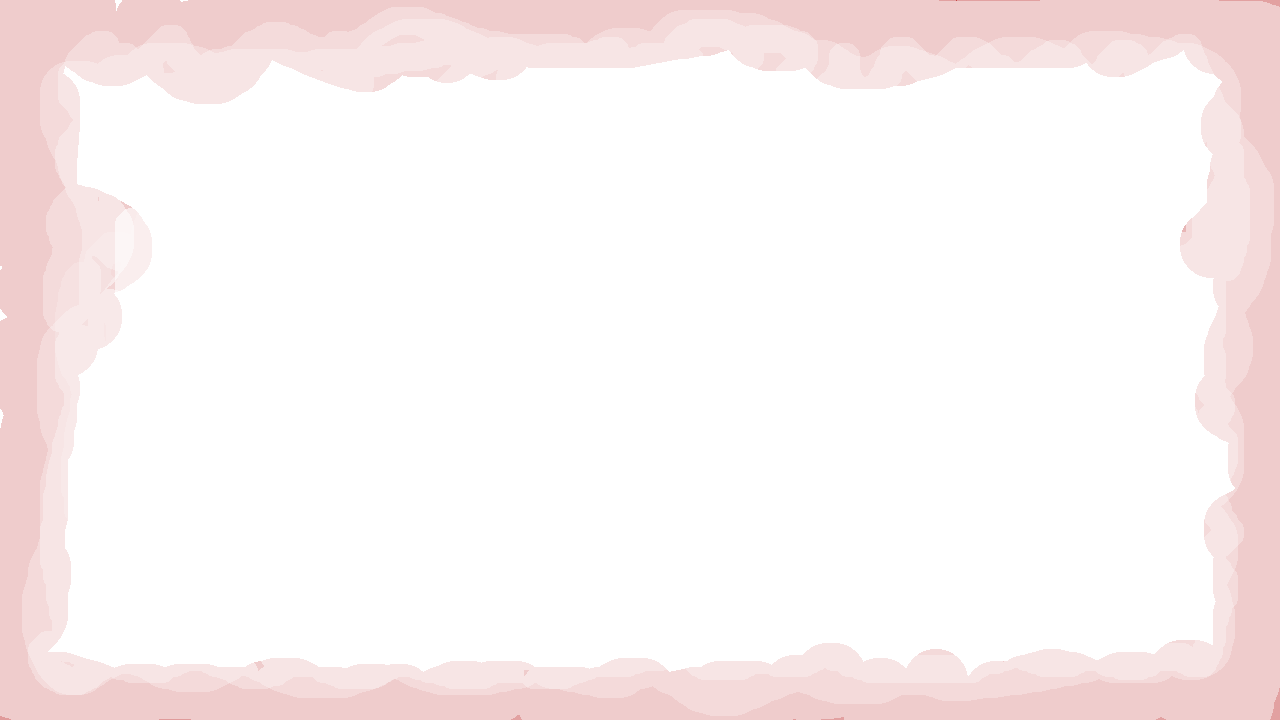
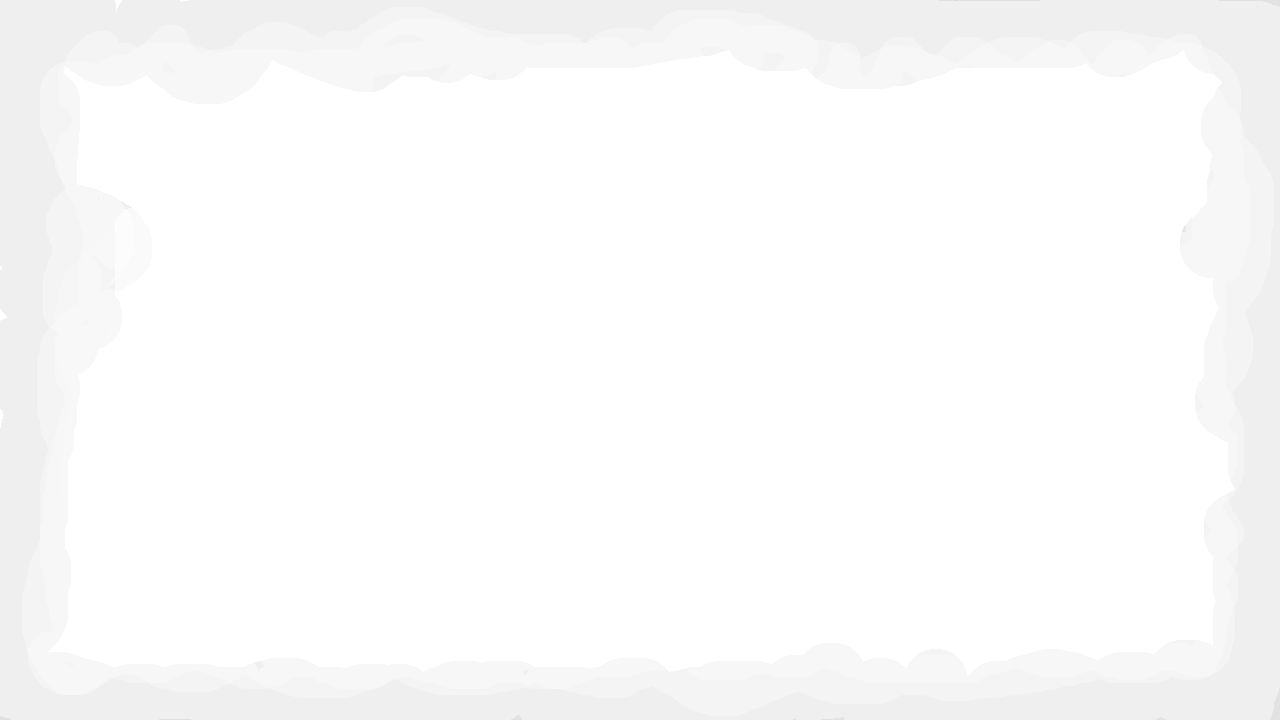
FLASH!!!!

diff --git a/game.py b/game.py
@@ -5,7 +5,7 @@ game.py - Hoofd game loop en initialisatie
 import pygame
 from math import pi
 
-from config import SCREEN, WIDTH, HEIGHT, MAX_DEPTH, MAP_PATH, START_AMMO, AMMO_CAP, DAMAGE_FLASH
+from config import SCREEN, WIDTH, HEIGHT, MAX_DEPTH, MAP_PATH, START_AMMO, AMMO_CAP, DAMAGE_FLASH, MIN_DIST, AMMO_FLASH, KEYCARD_FLASH
 from raycaster import dda, draw_wall
 from weapons import Pistol, Minigun, Rifle
 from enemies import Andrei
@@ -39,6 +39,9 @@ class Game:
         self.objects = self.create_objects()
 
         self.state = "menu"
+
+        self.curr_flash = ""
+        self.flash_time = 0
 
 
     def create_enemies(self):
@@ -125,13 +128,12 @@ class Game:
 
         # 2. Verzamel zichtbare sprites
         sprites = []  # (dist, SCREEN_x, enemy)
-
         for obj in self.objects.keys():
             if obj == "enemies":
                 for enemy in self.objects[obj]:
                     enemy.find_path(self.player)
                     #print(enemy.is_player_los(player_pos))
-                    dist, SCREEN_x, angle = enemy.get_render_data_fast(
+                    dist, SCREEN_x, angle, _ = enemy.get_render_data_fast(
                         player_pos, player_angle, wall_distances
                     )
                     if dist is not None:
@@ -141,18 +143,29 @@ class Game:
                         self.objects["enemies"].remove(enemy)
             elif obj == "ammo":
                 for item in self.objects["ammo"]:
-                    dist, SCREEN_x, angle = item.get_render_data_fast(
+                    dist, SCREEN_x, angle, is_hit = item.get_render_data_fast(
                         player_pos, player_angle, wall_distances
                     )
                     if dist is not None:
                         sprites.append((dist, SCREEN_x, item))
+                    if is_hit:
+                        self.curr_flash = "ammo"
+                        self.flash_time = 60
+                        item.interact(self.player)
+                        self.objects["ammo"].remove(item)
             else:
                 item = self.objects[obj]
-                dist, SCREEN_x, angle = item.get_render_data_fast(
-                    player_pos, player_angle, wall_distances
-                )
-                if dist is not None:
-                    sprites.append((dist, SCREEN_x, item))
+                if item is not None:
+                    dist, SCREEN_x, angle, is_hit = item.get_render_data_fast(
+                        player_pos, player_angle, wall_distances
+                    )
+                    if dist is not None:
+                        sprites.append((dist, SCREEN_x, item))
+                    if is_hit:
+                        item.interact(self.player)
+                        self.objects[obj] = None
+                        self.curr_flash = "keycard"
+                        self.flash_time = 60
 
         # 3. Sorteer sprites op afstand (verste eerst)
         sprites.sort(key=lambda x: x[0], reverse=True)
@@ -162,6 +175,13 @@ class Game:
 
         if self.player.inv_time > 10:
             SCREEN.blit(DAMAGE_FLASH, (0,0))
+        if self.flash_time > 0:
+            self.flash_time -= 1
+            if self.curr_flash == "keycard":
+                SCREEN.blit(KEYCARD_FLASH, (0, 0))
+            elif self.curr_flash == "ammo":
+                print("ammo flash")
+                SCREEN.blit(AMMO_FLASH, (0, 0))
         # 5. Wapen laatst
         self.current_gun.draw()
 

diff --git a/objects.py b/objects.py
@@ -7,11 +7,13 @@ from vector import Vector
 class RenderObject:
     def __init__(self, type, x, y):
         self.pos = Vector(x, y)
+        self.type = type
         sprite_path = f"assets/{type}.png"
         self.sprite = pygame.image.load(sprite_path).convert_alpha()
         # Cache voor sprite scaling
         self._cached_scale = None
         self._cached_dist = -1
+        self.dist = 100000000
 
         self.size = SPRITE_SIZE
     def get_render_data_fast(self, player_pos, player_angle, wall_distances):
@@ -35,16 +37,19 @@ class RenderObject:
         while rel_angle < -pi:
             rel_angle += 2 * pi
 
+        # Echte afstand (hypot)
+        self.dist = hypot(dx, dy)
+        is_hit = False
+        if self.dist < MIN_DIST:
+            is_hit = True
+
         # Niet zichtbaar buiten FOV
         if abs(rel_angle) > FOV / 2:
-            return None, None, None
-
-        # Echte afstand (hypot)
-        dist = hypot(dx, dy)
+            return None, None, None, is_hit
 
         # Te ver weg
-        if dist > MAX_DEPTH or dist < MIN_DIST:
-            return None, None, None
+        if self.dist > MAX_DEPTH or self.dist < MIN_DIST:
+            return None, None, None, is_hit
 
         # Projectie: screen_x = center + tan(rel_angle) * PROJ_DIST
         screen_x = WIDTH / 2 + tan(rel_angle) * PROJ_DIST
@@ -54,13 +59,13 @@ class RenderObject:
 
         # Bounds check
         if ray_num < 0 or ray_num >= NUM_RAYS:
-            return None, None, None
+            return None, None, None, is_hit
 
         # Check of sprite voor de muur staat op deze ray
-        if dist >= wall_distances[ray_num]:
-            return None, None, None
+        if self.dist >= wall_distances[ray_num]:
+            return None, None, None, is_hit
 
-        return dist, screen_x, rel_angle
+        return self.dist, screen_x, rel_angle, is_hit
 
     def render_fast(self, dist, screen_x):
         """Render sprite op gegeven afstand en scherm x positie"""
@@ -80,7 +85,26 @@ class RenderObject:
 
         SCREEN.blit(self._cached_scale, (draw_x, draw_y))
 
+    def interact(self, player):
+        pass
 
 class PickupObject(RenderObject):
     def __init__(self, type, x, y):
         super().__init__(type, x, y)
+    def interact(self, player):
+        if self.type == "objects/ammo":
+            if player.ammo > 100:
+                player.ammo = 200
+            else:
+                player.ammo += 100
+        if self.type == "objects/keycard":
+            player.got_keycard = True
+        if self.type == "objects/exit":
+            if player.got_keycard:
+                player.level += 1
+                print("Level up")
+
+
+
+
+

diff --git a/config.py b/config.py
@@ -28,7 +28,7 @@ PROJ_DIST = (WIDTH / 2) / (pi / 4)  # tan(FOV/2) = tan(pi/4) = 1
 
 # Speler instellingen
 PLAYER_RADIUS = 10
-PLAYER_SPEED = 4
+PLAYER_SPEED = 6
 PLAYER_ROT_SPEED = 0.001
 
 # Sprite instellingen
@@ -42,4 +42,13 @@ WEAPON_OFFSET_X = 0.04  # 4% van schermbreedte
 START_AMMO = 100
 AMMO_CAP = 200
 
-DAMAGE_FLASH = pygame.transform.scale(pygame.image.load("assets/Damage_Flash.png").convert_alpha(), (WIDTH, HEIGHT))
+SCREEN_FLASH = pygame.transform.scale(pygame.image.load("assets/Damage_Flash.png").convert_alpha(), (WIDTH, HEIGHT))
+DAMAGE_FLASH = SCREEN_FLASH.copy()
+DAMAGE_FLASH.fill((255,0,0), special_flags=pygame.BLEND_MULT)
+
+AMMO_FLASH = SCREEN_FLASH.copy()
+AMMO_FLASH.fill((255,215,0), special_flags=pygame.BLEND_MULT)
+
+KEYCARD_FLASH = SCREEN_FLASH.copy()
+KEYCARD_FLASH.fill((0,0,255), special_flags=pygame.BLEND_MULT)
+

diff --git a/player.py b/player.py
@@ -10,7 +10,7 @@ from vector import Vector
 
 
 class Player:
-    def __init__(self, x=150, y=150, health=10):
+    def __init__(self, x=150, y=150, health=100):
         self.pos = Vector(x, y)
         self.angle = 0
         self.health = health
@@ -18,6 +18,8 @@ class Player:
         self.death = False
         self.score = 0
         self.ammo = 0
+        self.got_keycard = False
+        self.level = 0
 
     def rotate(self, direction):
         """
